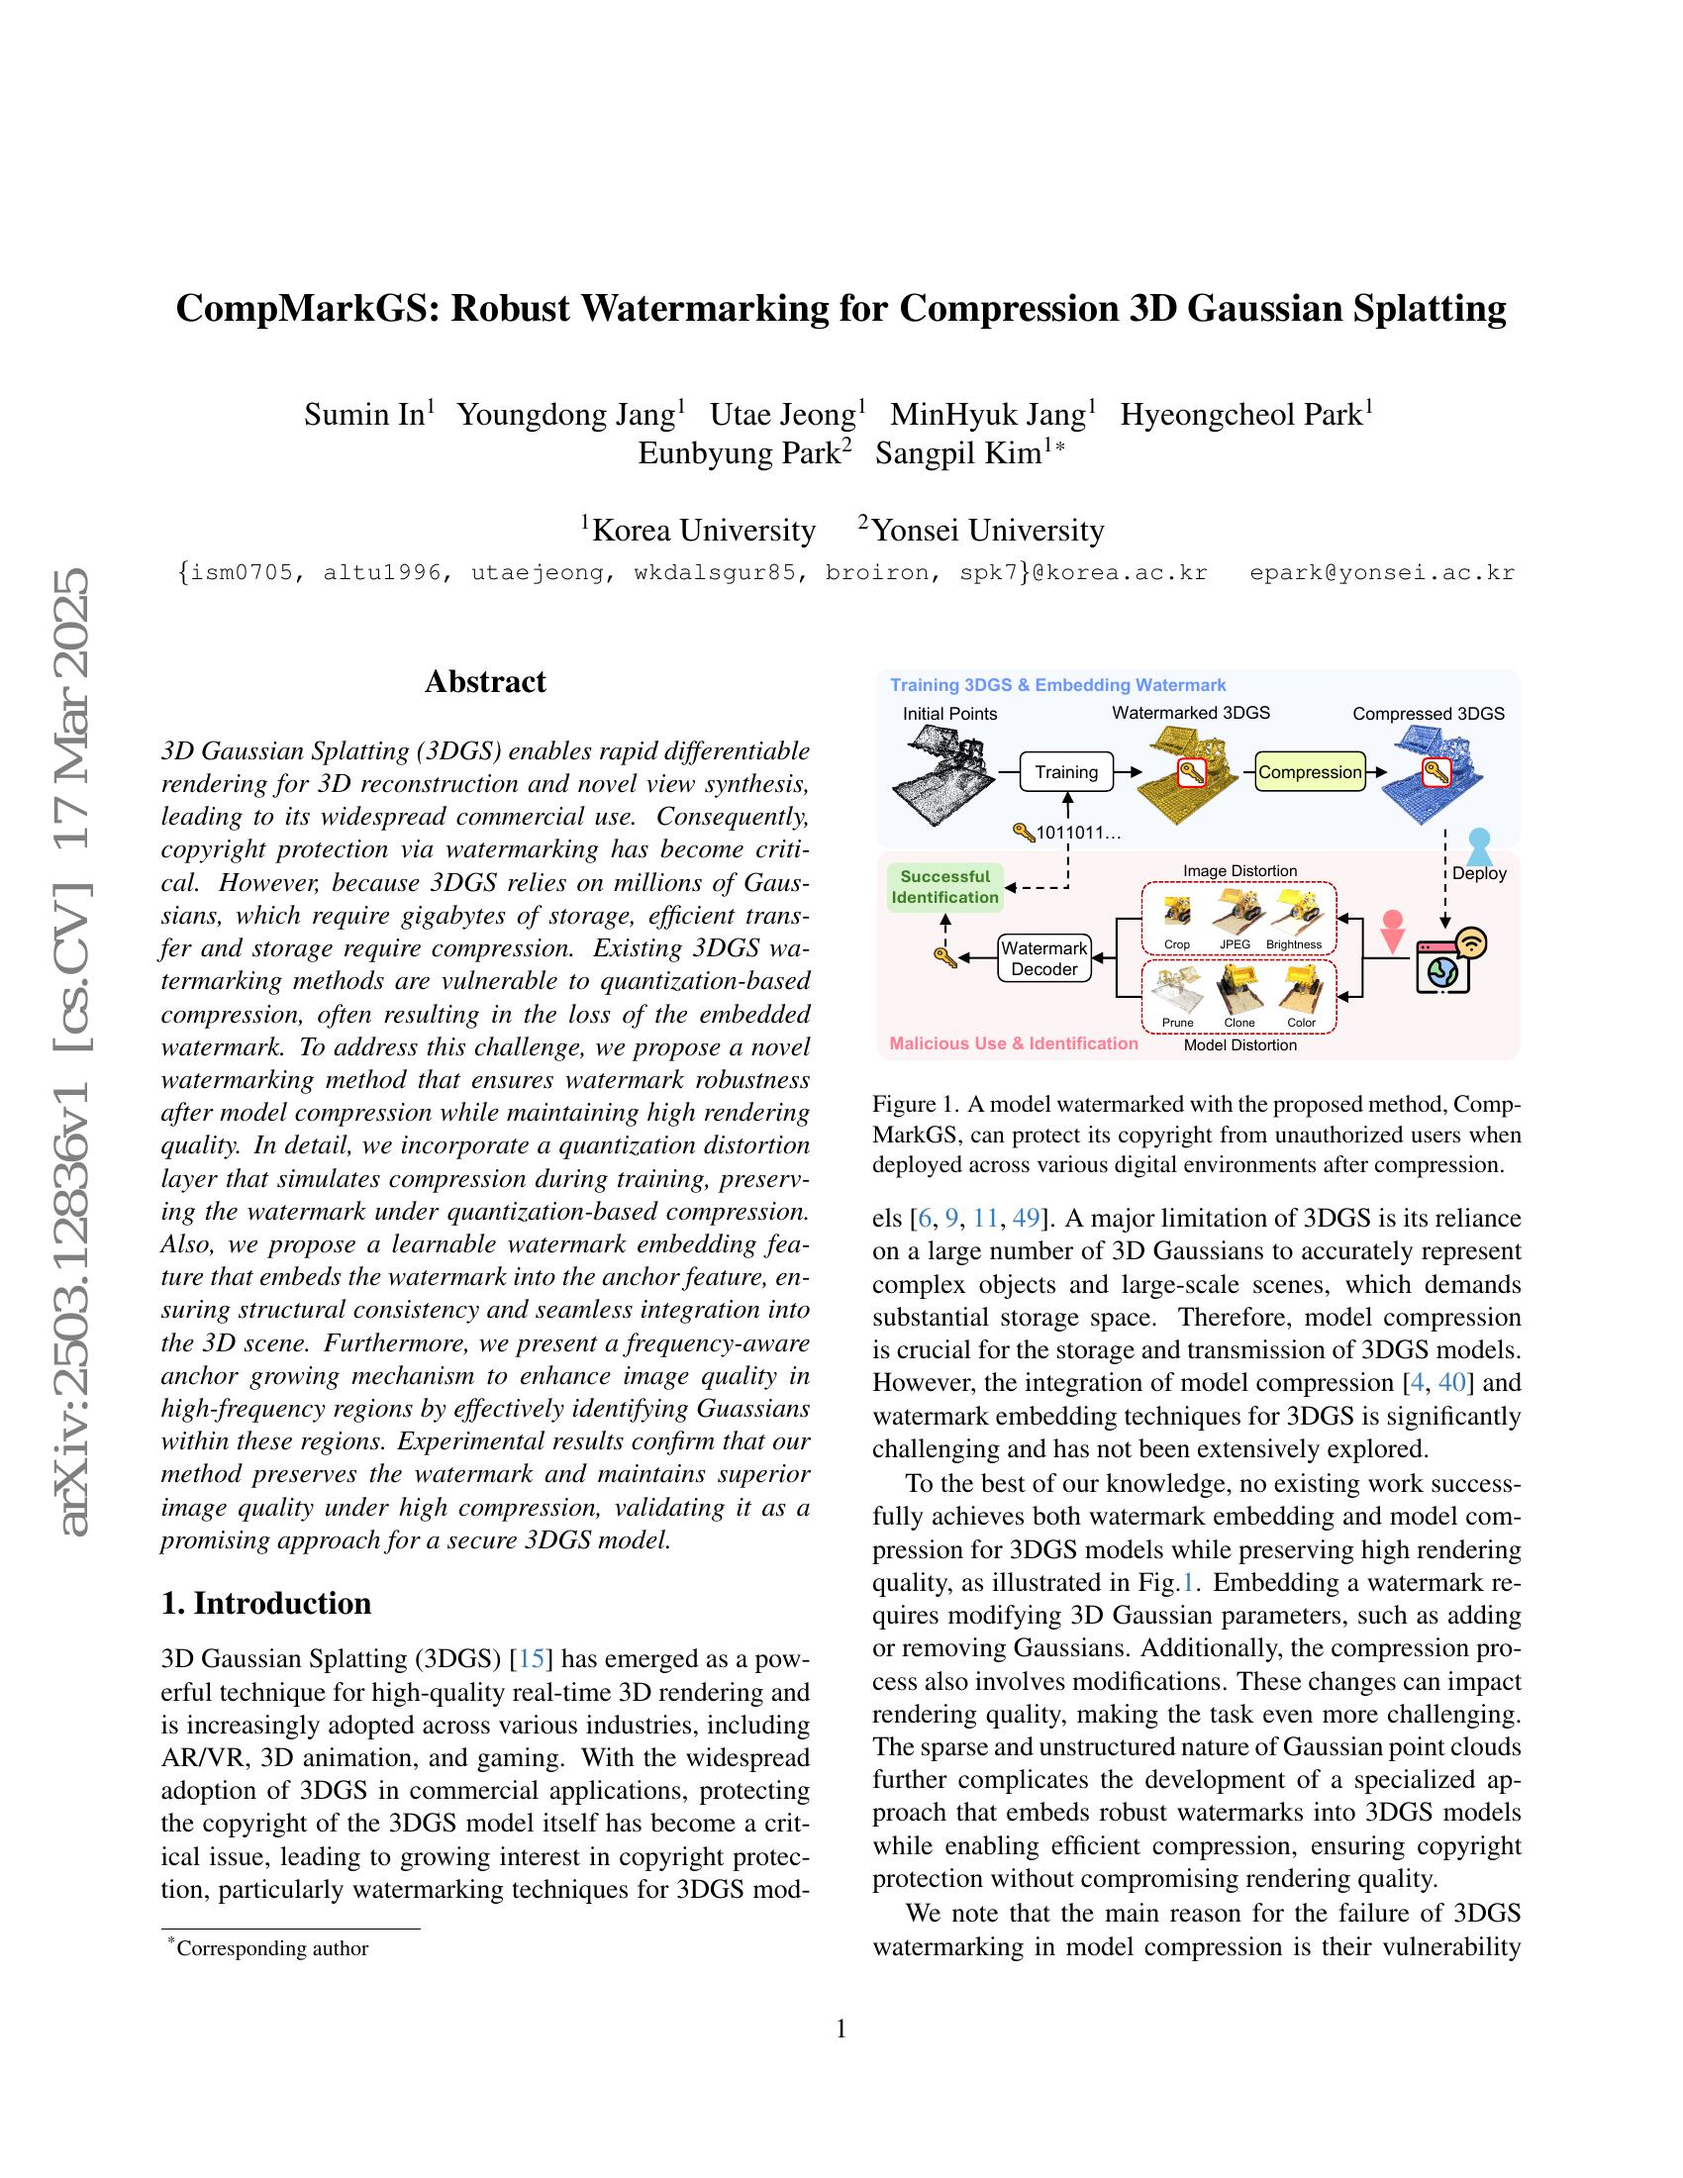
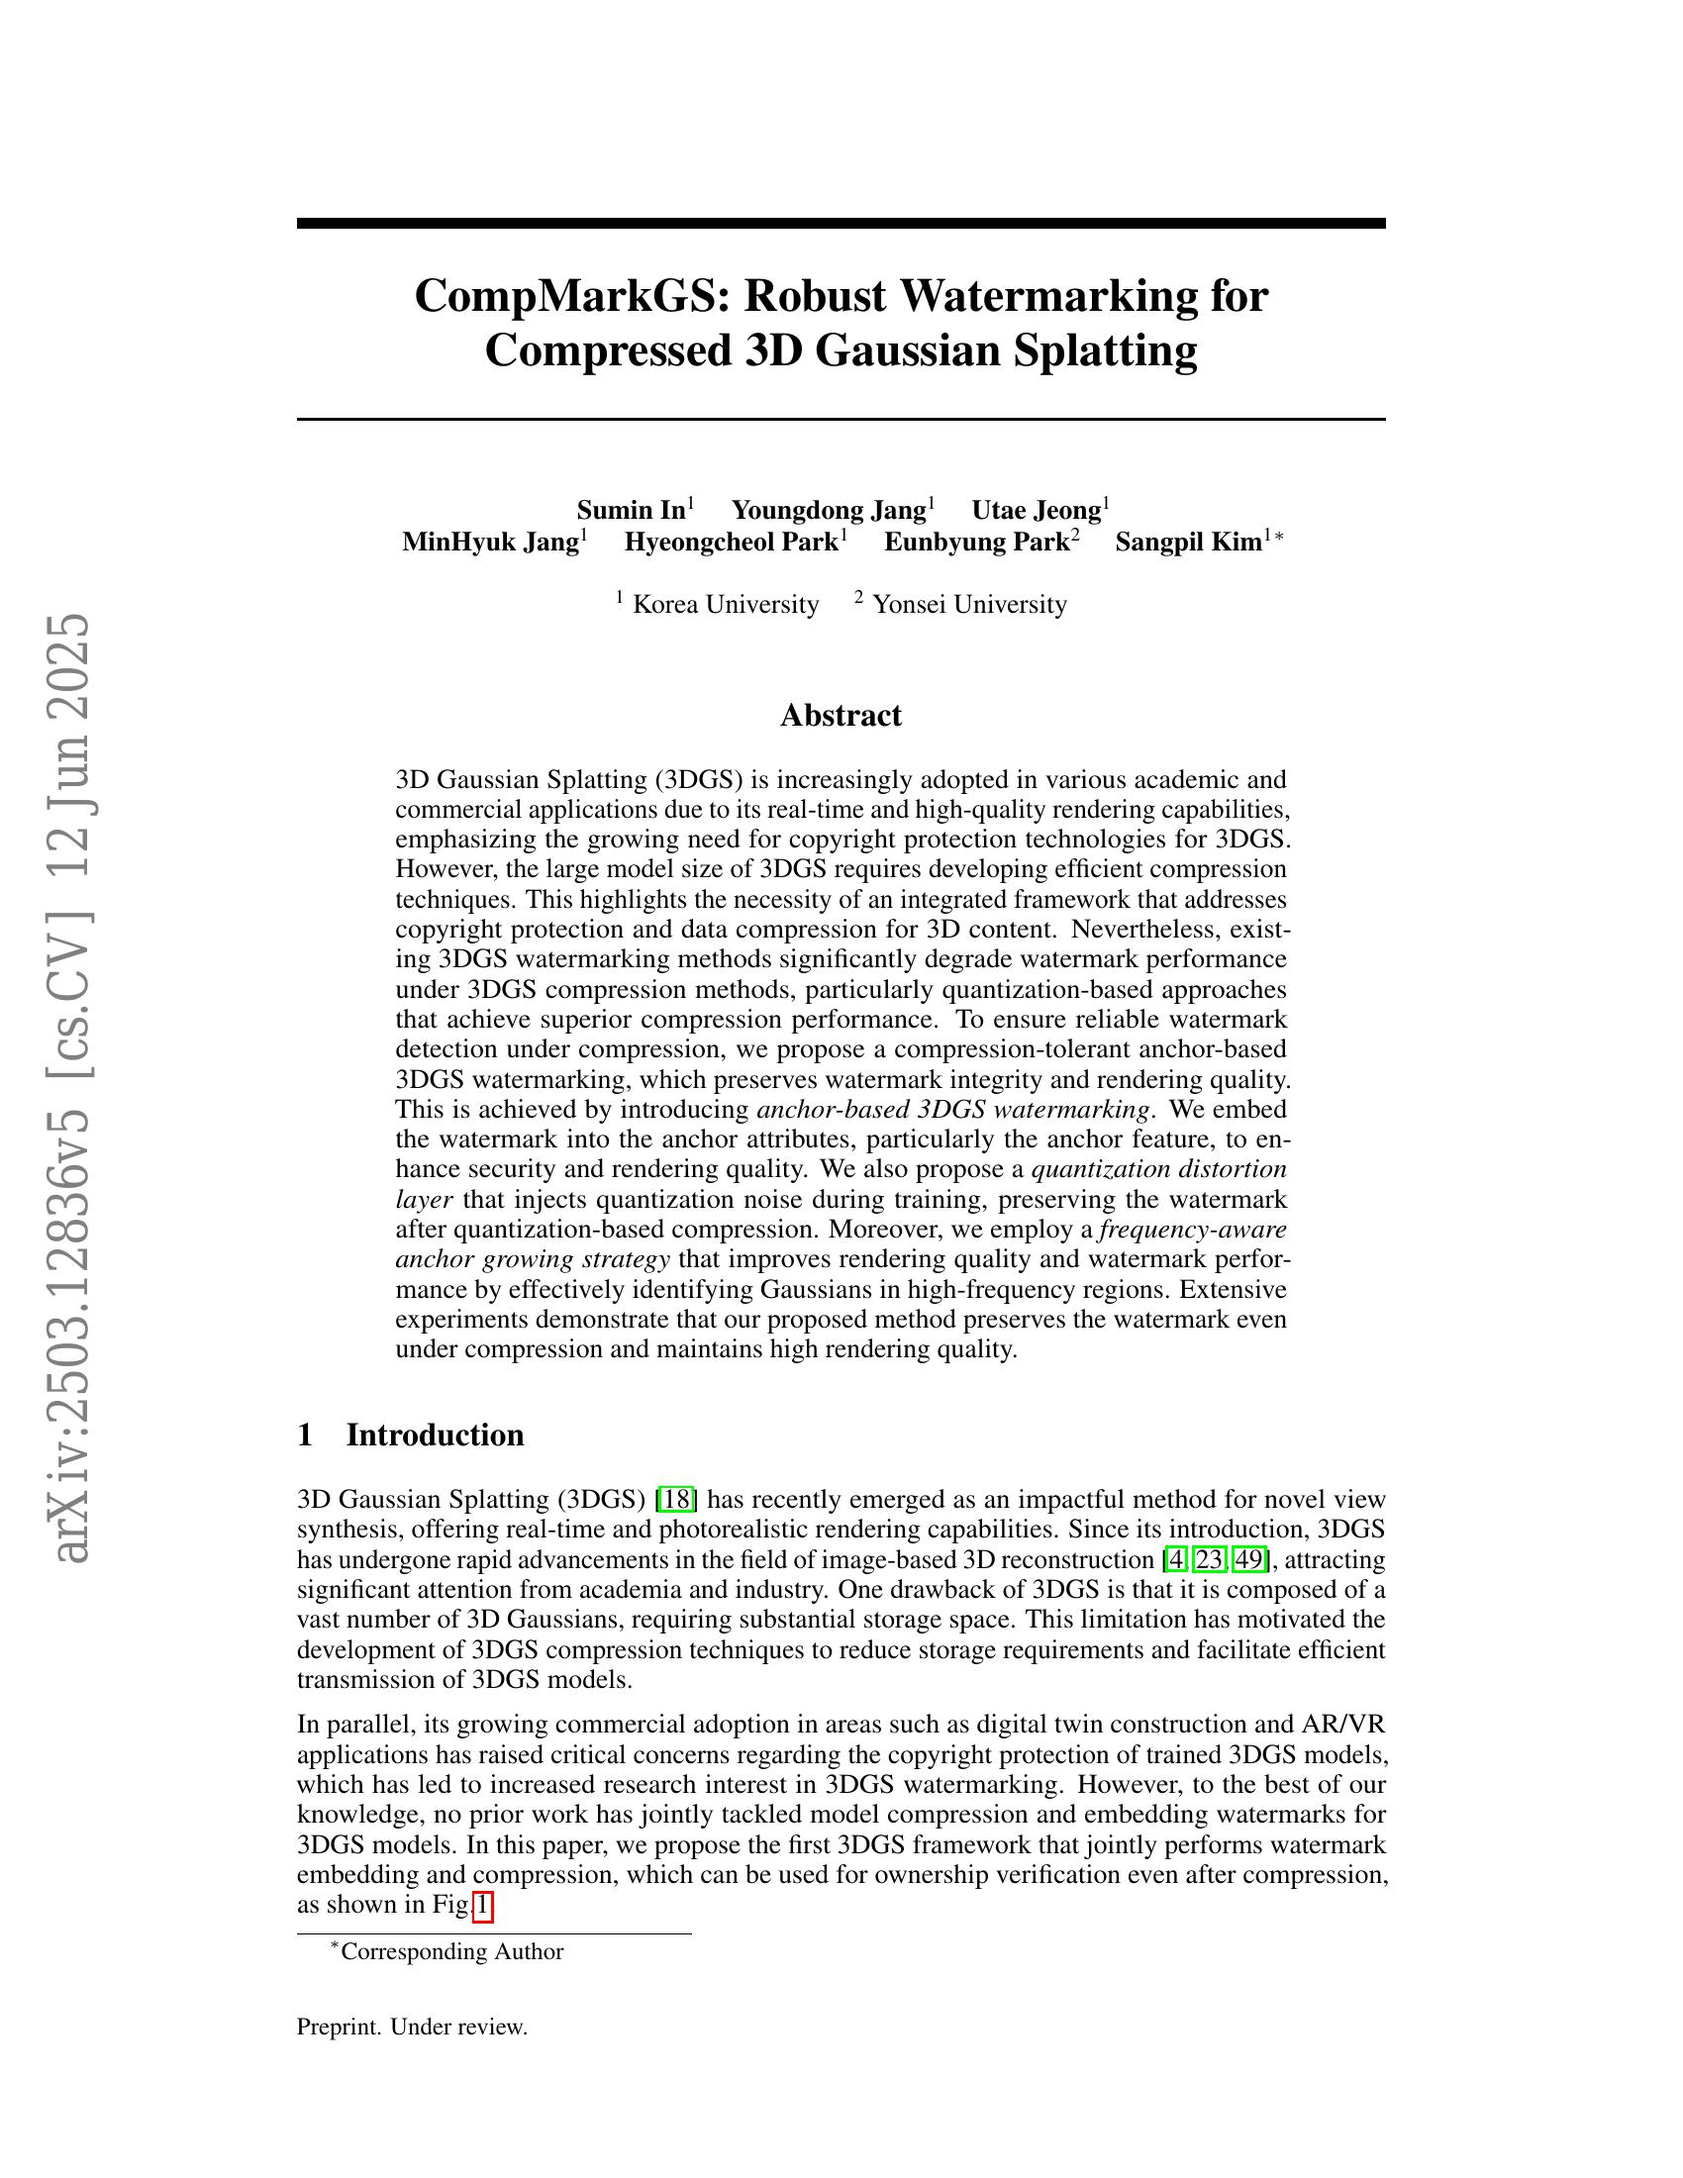
add paper

diff --git a/src/PublicationPage.js b/src/PublicationPage.js
@@ -4,6 +4,18 @@ import "./PublicationPage.css";
 const publications = [
     { 
         year: "Preprints", 
+        title: "DiffuseSlide: Training-Free High Frame Rate Video Generation Diffusion", 
+        journal: "arXiv:2506.01454", 
+        authors: "Geunmin Hwang, Hyun-kyu Ko, Younghyun Kim, Seungryong Lee, Eunbyung Park",
+        links: {
+            paper: "https://arxiv.org/abs/2506.01454",
+            project: "https://geunminhwang.github.io/DiffuseSlide/",
+            code: "https://github.com/GeunminHwang/DiffuseSlide",
+            thumbs: process.env.PUBLIC_URL + '/thumb/DiffuseSlide.jpg'
+        } 
+    },
+    { 
+        year: "Preprints", 
         title: "Hybrid 3D-4D Gaussian Splatting for Fast Dynamic Scene Representation", 
         journal: "arXiv:2505.13215", 
         authors: "Seungjun Oh, Younggeun Lee, Hyejin Jeon, Eunbyung Park",

diff --git a/thumb.py b/thumb.py
@@ -9,7 +9,7 @@ def pdf_to_thumbnail(pdf_path, output_path):
     except Exception as e:
         print(f"Error generating thumbnail: {e}")
 
-pdf_path = "/home/vlab/2505.13215v1.pdf"
+pdf_path = "/home/vlab/2503.12836v5.pdf"
 output_path = "./thumbnail.jpg"
 
 pdf_to_thumbnail(pdf_path, output_path)
